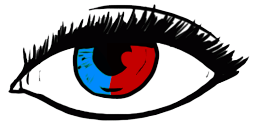
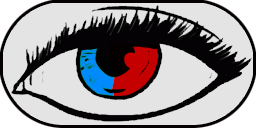
added spymode

diff --git a/codenames/CodeNamesGameScene.swift b/codenames/CodeNamesGameScene.swift
@@ -8,57 +8,83 @@
 
 import SpriteKit
 
+enum tiletype {
+    case red, blue, neutral, poison
+}
+
 class Button : SKShapeNode{
     var wordValue:String = "nil"
     var number:Int = 0
     var color:SKColor = SKColor.blackColor()
+    var colortype:tiletype = .neutral
     
-    func assign(word: String, num: Int) {
-        wordValue = word
-        number = num
-        print(wordValue)
-        print(number)
+    func setTeam(team: String) {
+        
     }
     
 }
 
 class CodeNamesGameScene: SKScene {
     
-    private let root = SKNode()
-    private var topBarHeight = CGFloat()
-    private var boardHeight = CGFloat()
-    let buttons = [Button](count: 25, repeatedValue: Button())
+    let root = SKNode()
+    var topBarHeight = CGFloat()
+    
+    var board = SKShapeNode()
+    var boardHeight = CGFloat()
+    var boardValue = [tiletype](count: 25, repeatedValue: .neutral)
+    
+    let teamToggle = SKSpriteNode(imageNamed: "eyeclosed.png")
+    var teamView:Bool = false
     
     override func didMoveToView(view: SKView) {
         topBarHeight = self.frame.height / CGFloat(5.0)
         boardHeight = self.frame.height - topBarHeight
         
         backgroundColor = SKColor.whiteColor()
-        constructScene()
-    }
-    
-    private func constructScene() {
-
         root.name = nil
         addChild(root)
         
+        newGame()
+    }
+    
+    private func constructScene() {
+        root.removeAllChildren()
         //add top bar
-        let topBar = SKShapeNode(rect: CGRectMake(0,self.frame.height - topBarHeight,self.frame.width, topBarHeight))
+        let topBar = SKShapeNode(rect: CGRectMake(0, self.frame.height - topBarHeight,self.frame.width, topBarHeight))
         topBar.fillColor = purplecolor
         topBar.zPosition = 0
         root.addChild(topBar)
         
         //add toggle button
-        let teamToggle = SKShapeNode(rect: CGRectMake(self.frame.width * 0.81,self.frame.height - (topBarHeight * 0.8),self.frame.width * 0.16, topBarHeight * 0.6))
-        teamToggle.fillColor = redcolor
+        teamToggle.size = CGSizeMake(topBarHeight*2, topBarHeight * 1)
+        teamToggle.position = CGPointMake(self.frame.maxX - teamToggle.size.width/2, self.frame.maxY - teamToggle.size.height/2)
+        teamToggle.size = CGSizeMake(topBarHeight * 1.8, topBarHeight * 0.9) //shrink button
+        teamToggle.color = SKColor.whiteColor()
         teamToggle.zPosition = 1
+        teamToggle.name = "reveal"
         root.addChild(teamToggle)
         
         //add the board space
-        let board = SKShapeNode(rect: CGRectMake(0,0,self.frame.width, self.frame.height - CGFloat(topBarHeight)))
+        board = SKShapeNode(rect: CGRectMake(0,0,self.frame.width, self.frame.height - CGFloat(topBarHeight)))
         board.fillColor = SKColor.blackColor()
         board.zPosition = 0
         root.addChild(board)
+        
+        let words = SKNode()
+        root.addChild(words)
+        
+        let newGameLabel = SKLabelNode(text: "New Game")
+        newGameLabel.zPosition = 2
+        newGameLabel.position = CGPointMake(frame.width/5, self.frame.maxY - topBarHeight*0.7)
+        newGameLabel.color = SKColor.blackColor()
+        root.addChild(newGameLabel)
+        
+        let newGameButton = SKShapeNode(rect: CGRectMake(0, frame.maxY - topBarHeight, board.frame.width/5, topBarHeight))
+        newGameButton.zPosition = 1
+        newGameButton.fillColor = SKColor.whiteColor()
+        newGameButton.name = "new game"
+        root.addChild(newGameButton)
+        
         
         //Build buttons in the board space
         let buttonSize = CGSizeMake(board.frame.width/5, boardHeight/5)
@@ -67,28 +93,82 @@ class CodeNamesGameScene: SKScene {
             for x in 0...4 {
                 
                 let button = Button(rect: CGRectMake(0, 0, buttonSize.width, buttonSize.height))
-                button.wordValue = words[buttonNumber]
+                button.wordValue = samplewords[buttonNumber]
                 button.number = buttonNumber
                 button.position = CGPointMake(buttonSize.width * CGFloat(x), buttonSize.height * CGFloat(y))
-                button.name = words[buttonNumber]
-                button.fillColor = neutralcolor
+                button.name = samplewords[buttonNumber]
+                button.colortype = boardValue[buttonNumber]
+                button.fillColor = teamView ? colorForTile(buttonNumber) : neutralcolor
                 button.zPosition = 1
-                root.addChild(button)
+                board.addChild(button)
                 
-                let word = SKLabelNode(text: words[buttonNumber])
+                let word = SKLabelNode(text: samplewords[buttonNumber])
                 word.fontColor = SKColor.blackColor()
                 word.fontSize = word.text!.characters.count > 10 ? 22 : 24
                 word.fontName = "ArialHebrew-Bold"
                 word.position = CGPointMake(button.position.x + buttonSize.width/2, button.position.y + buttonSize.height/3)
                 word.name = nil
                 word.zPosition = 2
-                root.addChild(word)
+                words.addChild(word)
                 
                 buttonNumber++
             }
         }
-        //assign random correctness values
+    }
+    
+    func enableTeamView() {
+        teamView = true
+        teamToggle.texture = SKTexture(imageNamed: "eyeopen.png")
+        constructScene()
+    }
+    
+    func disableTeamView() {
+        teamView = false
+        teamToggle.texture = SKTexture(imageNamed: "eyeclosed.png")
+        constructScene()
+    }
+    
+    func newGame() {
         
+        //generate random board
+        
+        var redRemaining:Int = 8
+        var blueRemaining:Int = 8
+        var poisonRemaining:Int = 1
+        
+        for i in 0...24 {
+            boardValue[i] = .neutral
+        }
+        
+        while (redRemaining > 0 || blueRemaining > 0 || poisonRemaining > 0) {
+            let i = Int(arc4random_uniform(UInt32(boardValue.count)))
+            if (boardValue[i] == .neutral) {
+                if redRemaining > 0 {
+                    boardValue[i] = .red
+                    redRemaining--
+                }else if (blueRemaining > 0) {
+                    boardValue[i] = .blue
+                    blueRemaining--
+                }else if (poisonRemaining > 0) {
+                    boardValue[i] = .poison
+                    poisonRemaining--
+                }
+            }
+        }
+        constructScene()
+    }
+    
+    func colorForTile(tile: Int) -> SKColor {
+        switch boardValue[tile] {
+            case .red:
+                return redcolor
+            case .blue:
+                return bluecolor
+            case .poison:
+                return poisoncolor
+        default:
+            return neutralcolor
+        }
     }
     
     override func touchesBegan(touches: Set<UITouch>, withEvent event: UIEvent?) {
@@ -96,12 +176,23 @@ class CodeNamesGameScene: SKScene {
         let touchLocation = touch.locationInNode(root)
         let touchedNodes = root.nodesAtPoint(touchLocation)
         
+        //print("Touch: \(touchLocation.x), \(touchLocation.y)")
+        
         for node in touchedNodes {
+            
             if(node.name == nil) {
                 continue
             }
-            if(node.name != nil){
-                print(node.name)
+            print(node.name)
+            
+            switch node.name! as String {
+                case "reveal":
+                    teamView ? disableTeamView() : enableTeamView()
+                    return
+                case "new game":
+                    newGame()
+            default:
+                continue
             }
         }
     }
@@ -110,9 +201,9 @@ class CodeNamesGameScene: SKScene {
     private let bluecolor = SKColor(colorLiteralRed: 0.2, green: 0.2, blue: 0.8, alpha: 1.0)
     private let purplecolor = SKColor(colorLiteralRed: 141.0/255.0, green: 113.0/255.0, blue: 153.0/255.0, alpha: 1.0)
     private let neutralcolor = SKColor(colorLiteralRed: 193.0/255.0, green: 173.0/255.0, blue: 148.0/255.0, alpha: 1.0)
-    private let blackcolor = SKColor(colorLiteralRed: 53, green: 41, blue: 41, alpha: 255)
+    private let poisoncolor = SKColor(colorLiteralRed: 0.2, green: 0.3, blue: 0.2, alpha: 1.0)
     
-    private let words = [   "one", "two", "three", "four", "five",
+    private let samplewords = [   "one", "two", "three", "four", "five",
                     "six", "seven", "eight", "nine", "ten",
                     "eleven", "twelve", "thirteen", "fourteen", "fifteen",
                     "sixteen", "seventeen", "eighteen", "nineteen", "twenty",
